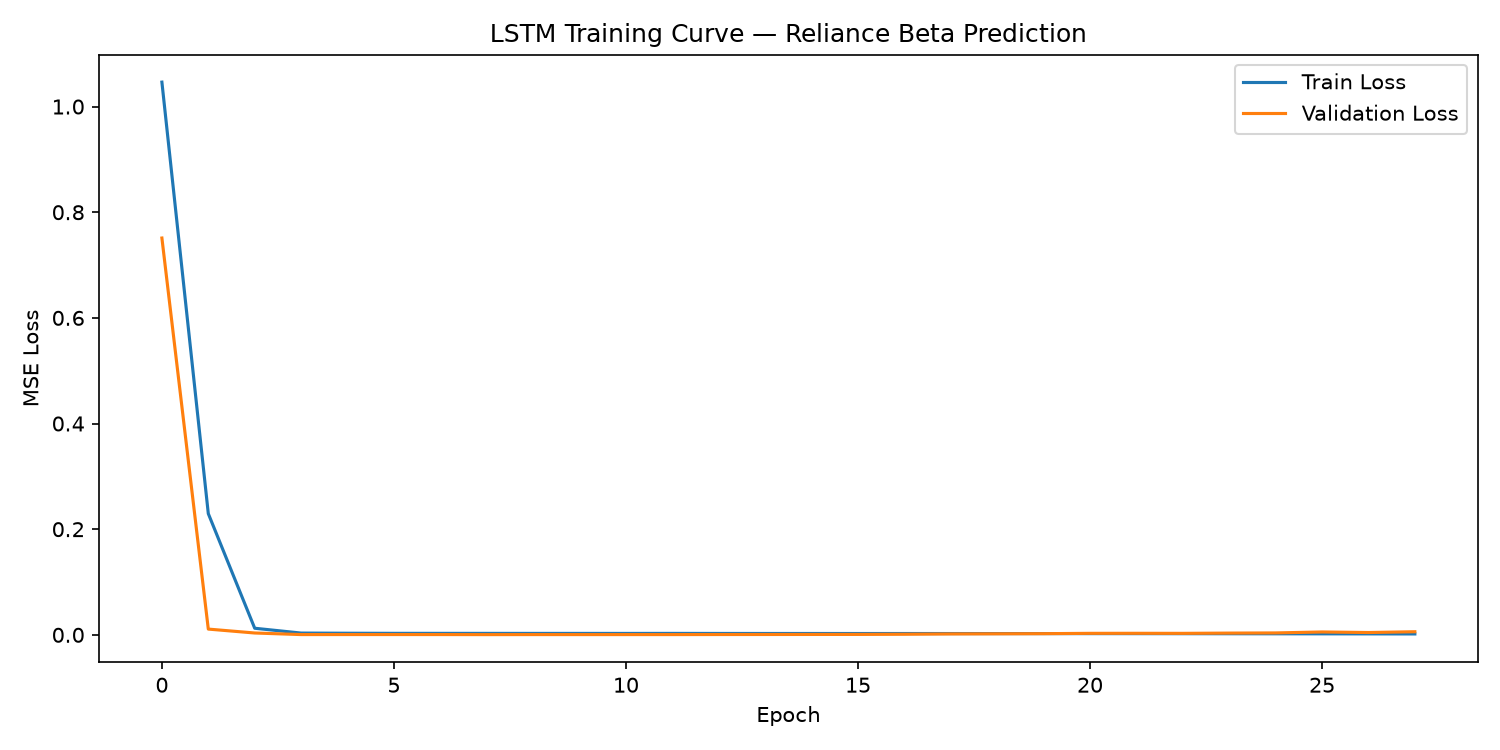
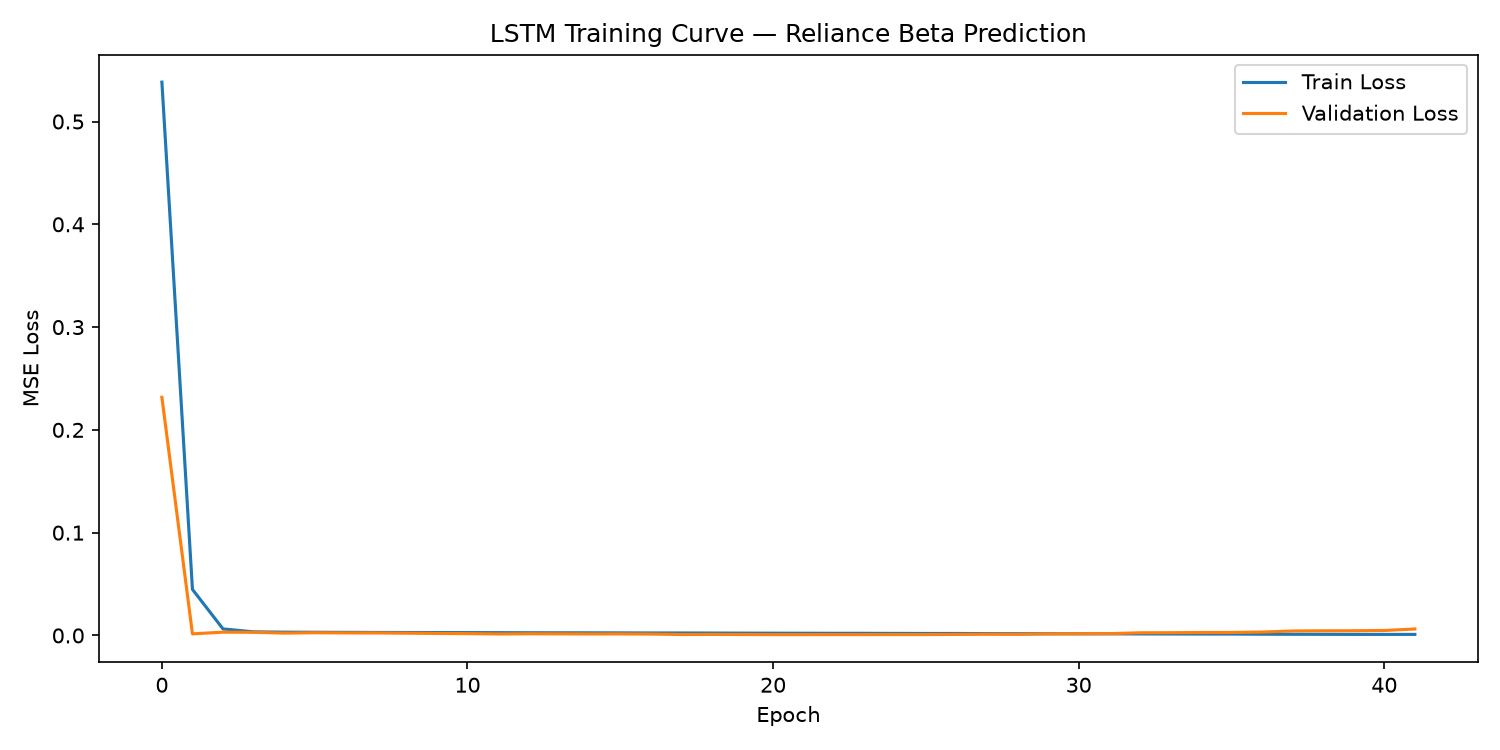
Add lagged beta as an input feature, with shift-correctness test (46/46 passing)

diff --git a/tests/test_lagged_beta_feature.py b/tests/test_lagged_beta_feature.py
@@ -1,0 +1,19 @@
+import numpy as np
+import pandas as pd
+from neural_capm.data.preprocessing import build_full_feature_matrix
+
+
+def test_lagged_beta_is_shifted_by_exactly_one_day():
+    dates = pd.date_range("2015-01-01", periods=300, freq="B")
+    rng = np.random.default_rng(0)
+    market = pd.Series(rng.normal(0, 0.01, 300), index=dates)
+    stock = 1.2 * market + rng.normal(0, 0.002, 300)
+
+    result = build_full_feature_matrix(stock, market, beta_burn_in=90)
+
+    # for every row, lagged_beta should equal the PREVIOUS row's beta_target,
+    # never the current row's own beta_target
+    shifted_actual = result["beta_target"].shift(1).loc[result.index[1:]]
+    lagged_reported = result["lagged_beta"].loc[result.index[1:]]
+
+    assert np.allclose(shifted_actual.dropna(), lagged_reported.loc[shifted_actual.dropna().index])

diff --git a/src/neural_capm/data/preprocessing.py b/src/neural_capm/data/preprocessing.py
@@ -114,10 +114,12 @@ def build_full_feature_matrix(
     technical = build_technical_feature_matrix(
         stock_returns, momentum_window=momentum_window, vol_window=vol_window
     )
-    beta_target = compute_kalman_beta(stock_returns, market_returns).iloc[beta_burn_in:]
+    beta_full = compute_kalman_beta(stock_returns, market_returns)
+    beta_target = beta_full.iloc[beta_burn_in:]
+    lagged_beta = beta_full.shift(1).iloc[beta_burn_in:]  # beta_(t-1), safely known at time t
 
     full = pd.concat(
-        [macro, technical, beta_target.rename("beta_target")],
+        [macro, technical, lagged_beta.rename("lagged_beta"), beta_target.rename("beta_target")],
         axis=1,
         join="inner",
     ).dropna()

diff --git a/tests/test_full_feature_matrix.py b/tests/test_full_feature_matrix.py
@@ -11,7 +11,7 @@ def test_full_feature_matrix_structure():
 
     result = build_full_feature_matrix(stock, market, beta_burn_in=90)
 
-    expected_columns = {"india_cpi", "india_10y_yield", "momentum", "volatility", "beta_target"}
+    expected_columns = {"india_cpi", "india_10y_yield", "momentum", "volatility", "lagged_beta", "beta_target"}
     assert set(result.columns) == expected_columns
     assert result.isna().sum().sum() == 0
     assert len(result) > 0